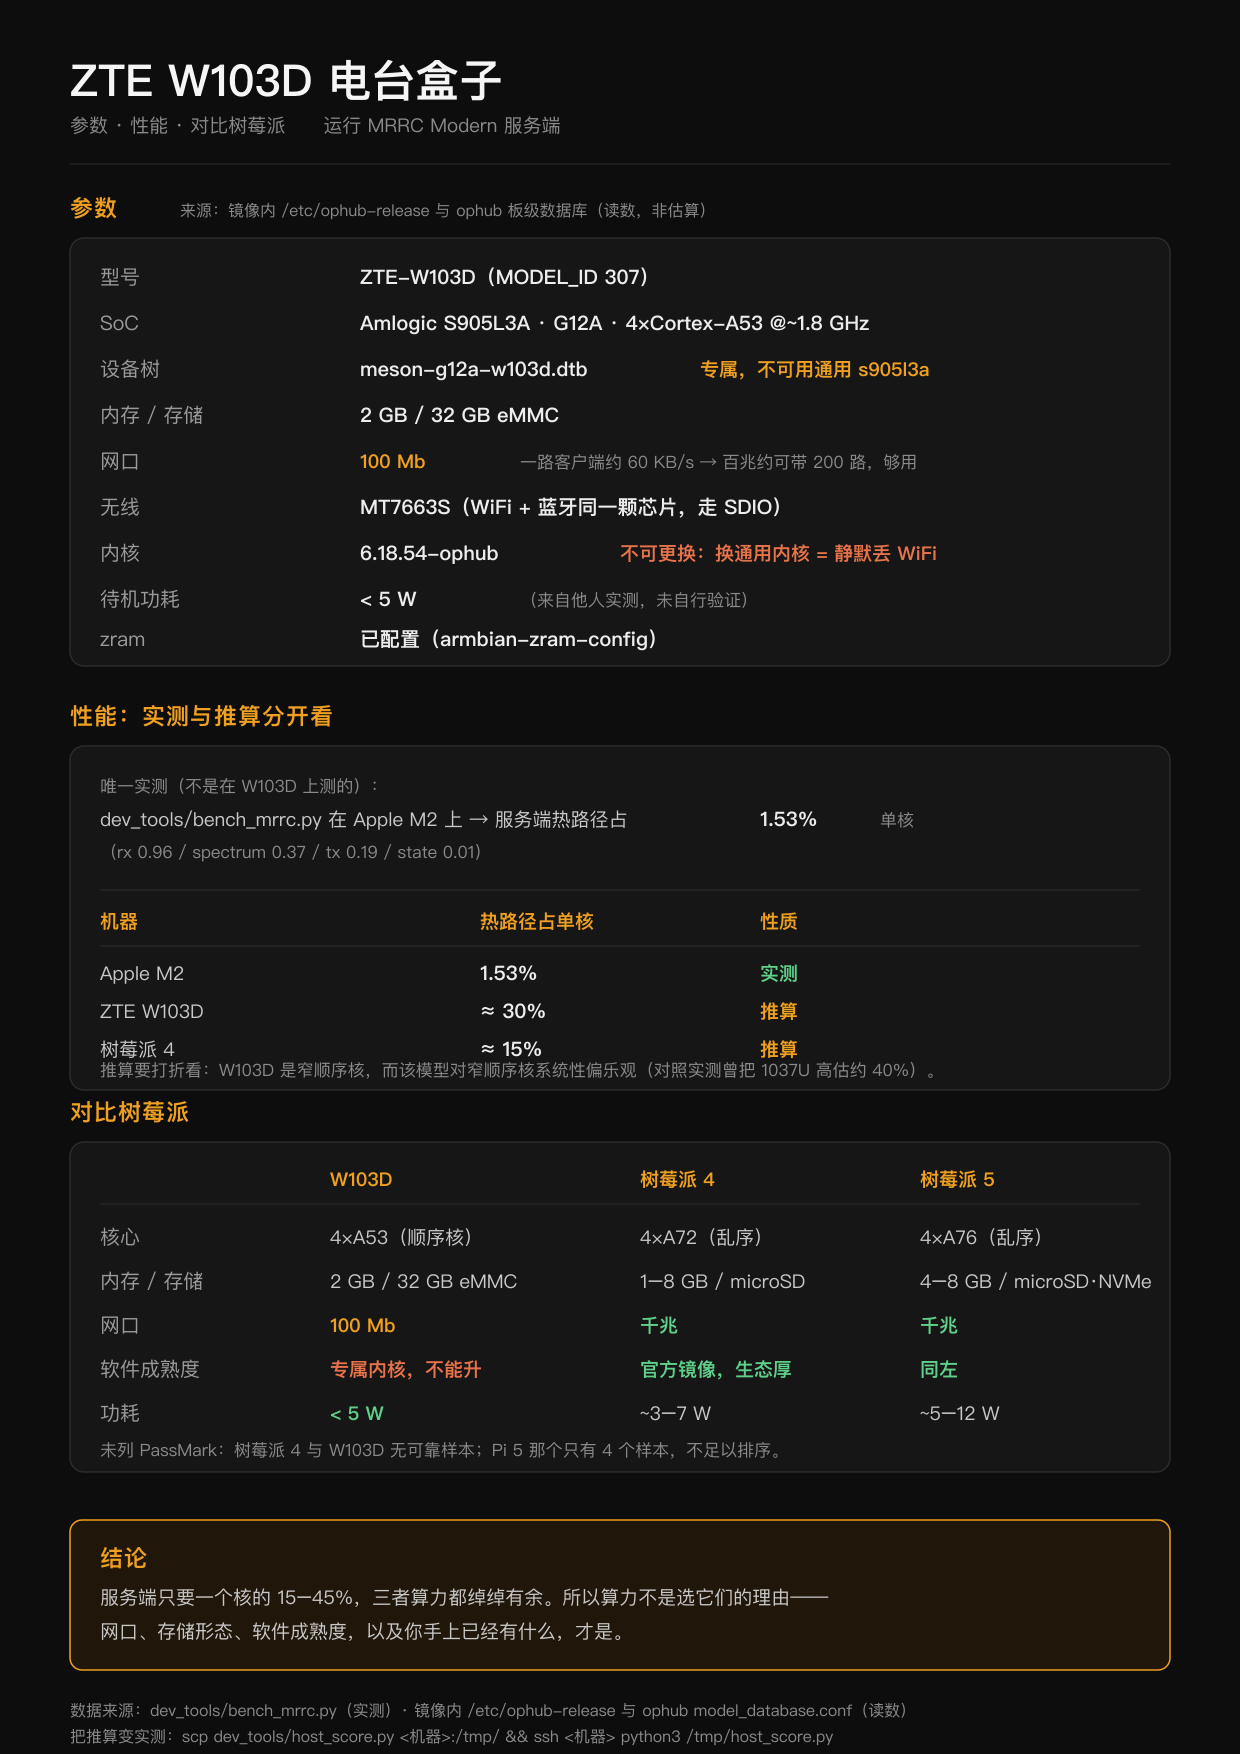
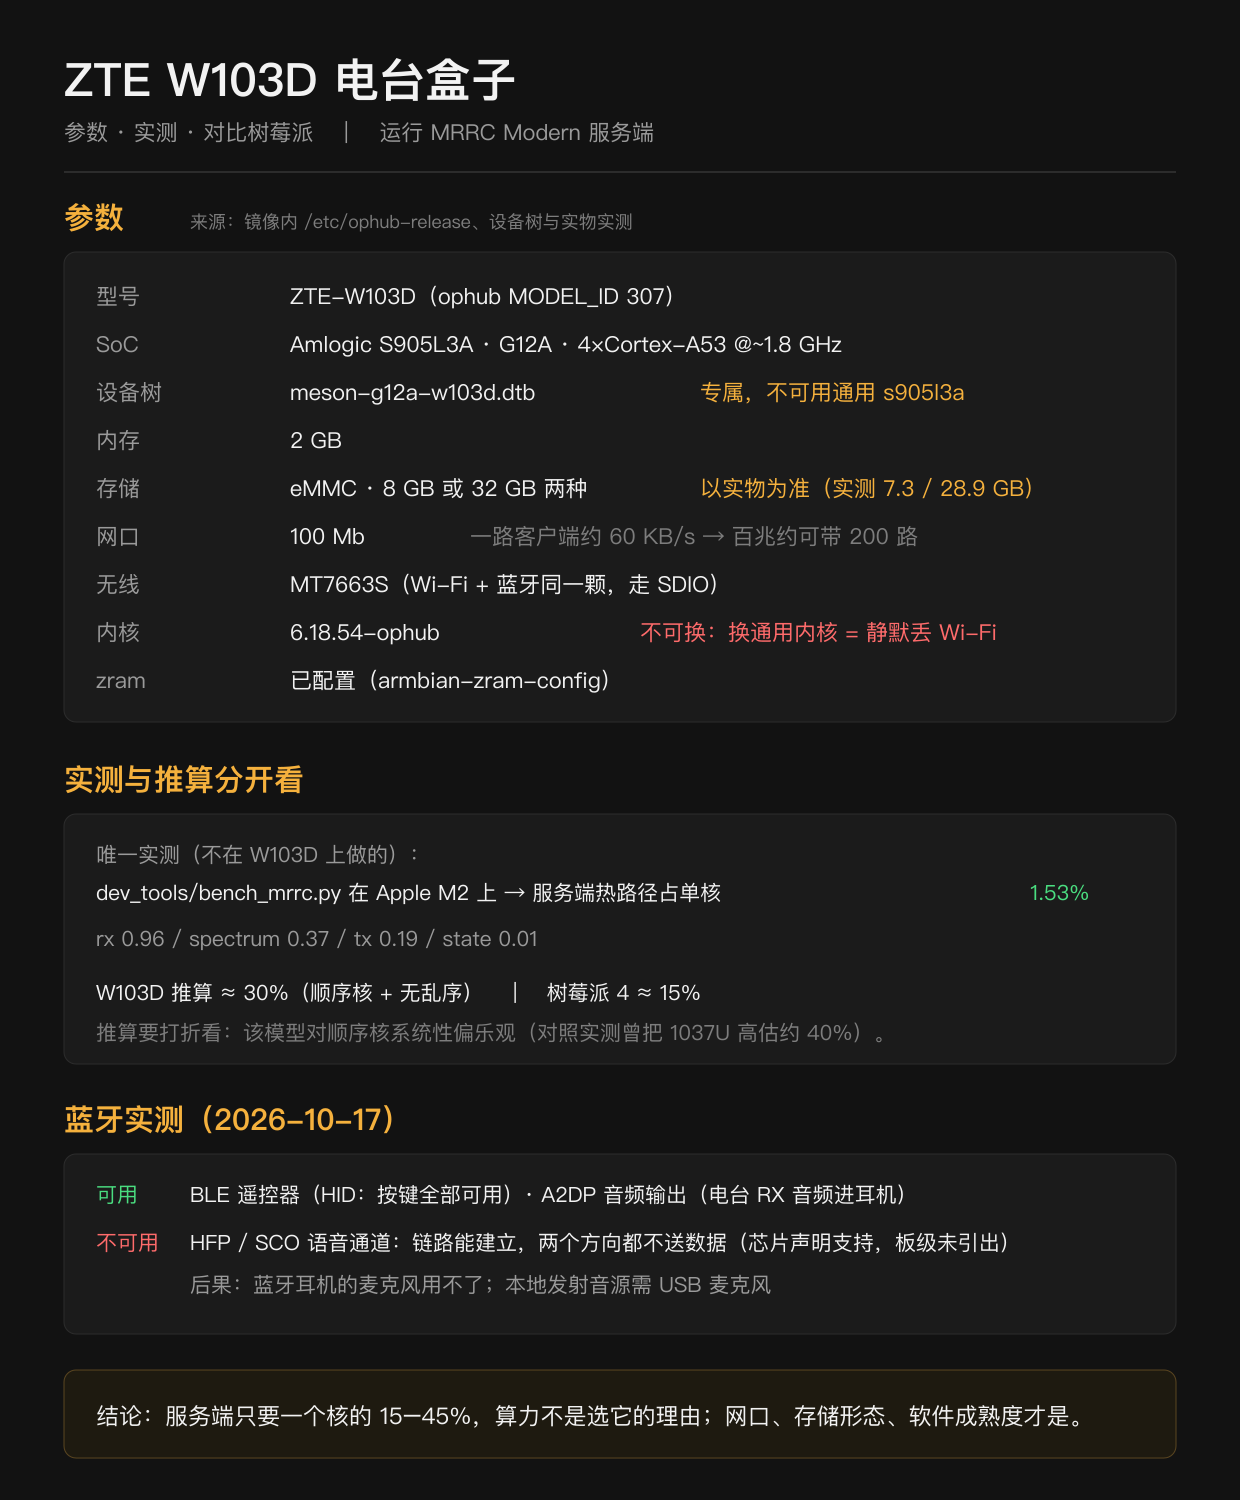
docs: 重做 W103D 参数图（存储两种规格 + 蓝牙实测结论）
- 存储不是只有 32 GB：实测到 7.3 GB（8 GB 版）与 28.9 GB（32 GB 版）两种，
  图上与完整指南都改成「8 GB 或 32 GB，以实物为准」。
- 补一节蓝牙实测（2026-10-17）：BLE 遥控 HID 与 A2DP 音频输出可用；HFP/SCO
  两个方向都不送数据（芯片声明支持、板级未引出），所以耳机麦克风不可用。
- 这张图此前没有仓库内源文件；新增 docs/images/w103d-spec-sheet.svg 作为源，
  rsvg-convert 渲染成 website/images/w103d-spec-sheet.png（1240×1500）。

diff --git a/website/board/index.html b/website/board/index.html
@@ -31,7 +31,7 @@ h1{font-size:21px;margin:0 0 4px}
 <h1>🐞 FDE 看板 — 上报 → 分类 → 排期 → 后台迭代</h1>
 <p class="muted">分类即决策：<b>noise</b> → 已答复闭环（无需代码）· <b>bug</b> → 自动排期进入无人值守实施（独立 <code>fde/</code> 分支 + 全量测试绿才提交，main 不受影响）· <b>feature</b> → 待决策（操作员排期）。
 用户侧结论在 <a href="../answers/">答复页</a>。
-共 18 条 · 待决 6 · 已排期 1 · 已答复 11 · 已提交 0 · 最后更新 2026-10-17 20:30（自动生成，勿手改）</p>
+共 18 条 · 待决 6 · 已排期 1 · 已答复 11 · 已提交 0 · 最后更新 2026-10-17 20:50（自动生成，勿手改）</p>
 <div class="board">
 <div class='col' id='backlog'><h2>待决策（新需求）<span class='n'>6</span></h2><div class='card' id='20261016-230940-40c1'>
 <div class='tags'><span class='k k-noise'>noise</span><code>20261016-230940-40c1</code><span class='t'>2026-10-16 23:22</span></div>

diff --git a/website/w103d.html b/website/w103d.html
@@ -117,7 +117,7 @@
 <thead><tr><th>项</th><th>必须是</th></tr></thead><tbody>
 <tr><td>型号</td><td><strong>ZTE W103D</strong>（中兴云电脑 / 电视盒子）</td></tr>
 <tr><td>芯片</td><td><strong>Amlogic S905L3A</strong>（G12A 家族，4×Cortex-A53）</td></tr>
-<tr><td>内存/存储</td><td>2 GB / 32 GB eMMC</td></tr>
+<tr><td>内存/存储</td><td>2 GB / eMMC <strong>8 GB 或 32 GB 两种</strong>（实测 7.3 GB 与 28.9 GB，以实物为准）</td></tr>
 <tr><td>网口</td><td><strong>100M 有线</strong>（够用：一路客户端约 60 KB/s）</td></tr>
 <tr><td>无线</td><td>MT7663S，<strong>只用 2.4 GHz</strong>。线上下载的 v1.25.5 镜像带的是会渐进式挂死的 2020 版 N9 固件（见 §20.5）；出厂 2021 版已钉进仓库、<strong>1.26.0 起随镜像生效</strong>。5 GHz 能关联但数据面不通，还会把芯片拖到 MCU 超时（2026-10-12 实测）。<strong>实时音频优先走有线</strong>）</td></tr>
 </tbody></table></div>

diff --git a/website/zh/w103d.html b/website/zh/w103d.html
@@ -117,7 +117,7 @@
 <thead><tr><th>项</th><th>必须是</th></tr></thead><tbody>
 <tr><td>型号</td><td><strong>ZTE W103D</strong>（中兴云电脑 / 电视盒子）</td></tr>
 <tr><td>芯片</td><td><strong>Amlogic S905L3A</strong>（G12A 家族，4×Cortex-A53）</td></tr>
-<tr><td>内存/存储</td><td>2 GB / 32 GB eMMC</td></tr>
+<tr><td>内存/存储</td><td>2 GB / eMMC <strong>8 GB 或 32 GB 两种</strong>（实测 7.3 GB 与 28.9 GB，以实物为准）</td></tr>
 <tr><td>网口</td><td><strong>100M 有线</strong>（够用：一路客户端约 60 KB/s）</td></tr>
 <tr><td>无线</td><td>MT7663S，<strong>只用 2.4 GHz</strong>。线上下载的 v1.25.5 镜像带的是会渐进式挂死的 2020 版 N9 固件（见 §20.5）；出厂 2021 版已钉进仓库、<strong>1.26.0 起随镜像生效</strong>。5 GHz 能关联但数据面不通，还会把芯片拖到 MCU 超时（2026-10-12 实测）。<strong>实时音频优先走有线</strong>）</td></tr>
 </tbody></table></div>

diff --git a/docs/W103D_GUIDE.md b/docs/W103D_GUIDE.md
@@ -24,7 +24,7 @@
 | --- | --- |
 | 型号 | **ZTE W103D**（中兴云电脑 / 电视盒子） |
 | 芯片 | **Amlogic S905L3A**（G12A 家族，4×Cortex-A53） |
-| 内存/存储 | 2 GB / 32 GB eMMC |
+| 内存/存储 | 2 GB / eMMC **8 GB 或 32 GB 两种**（实测 7.3 GB 与 28.9 GB，以实物为准）|
 | 网口 | **100M 有线**（够用：一路客户端约 60 KB/s） |
 | 无线 | MT7663S，**只用 2.4 GHz**。线上下载的 v1.25.5 镜像带的是会渐进式挂死的 2020 版 N9 固件（见 §20.5）；出厂 2021 版已钉进仓库、**1.26.0 起随镜像生效**。5 GHz 能关联但数据面不通，还会把芯片拖到 MCU 超时（2026-10-12 实测）。**实时音频优先走有线**） |
 
